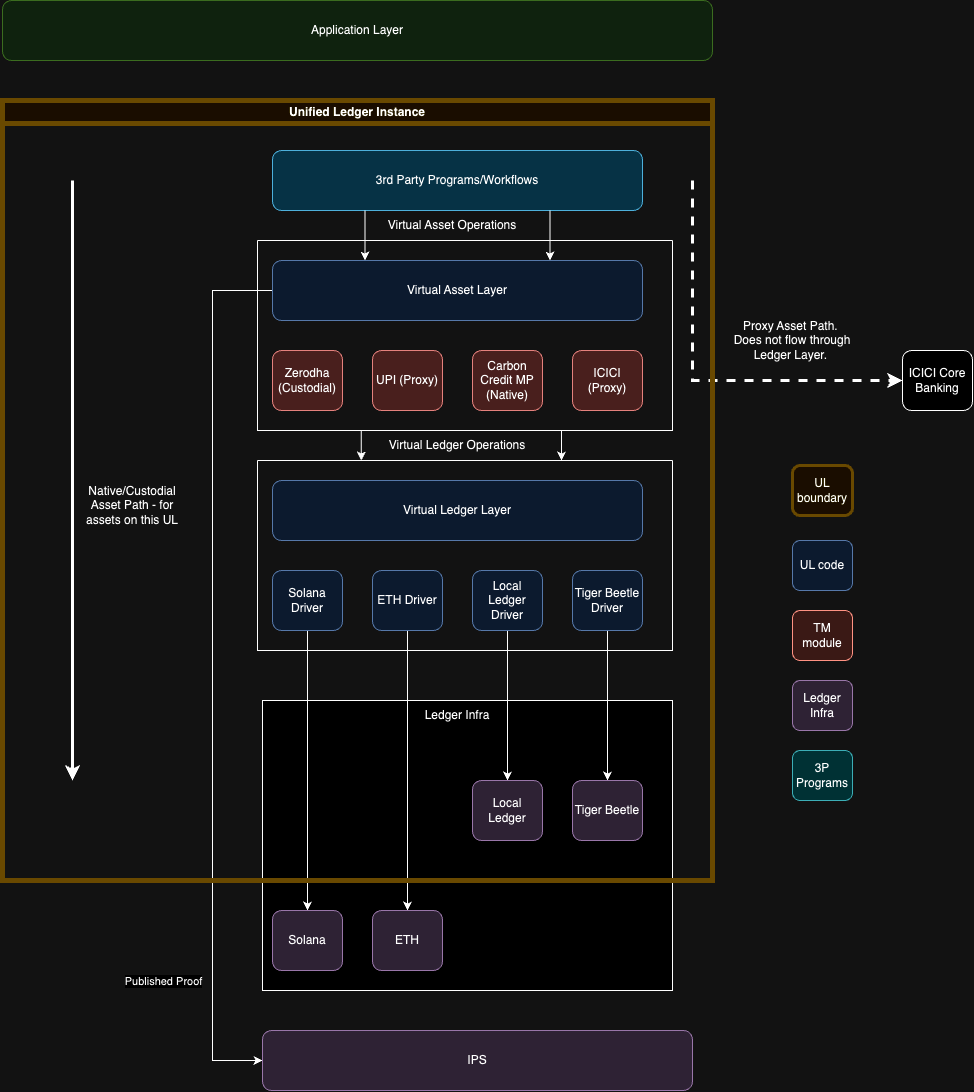
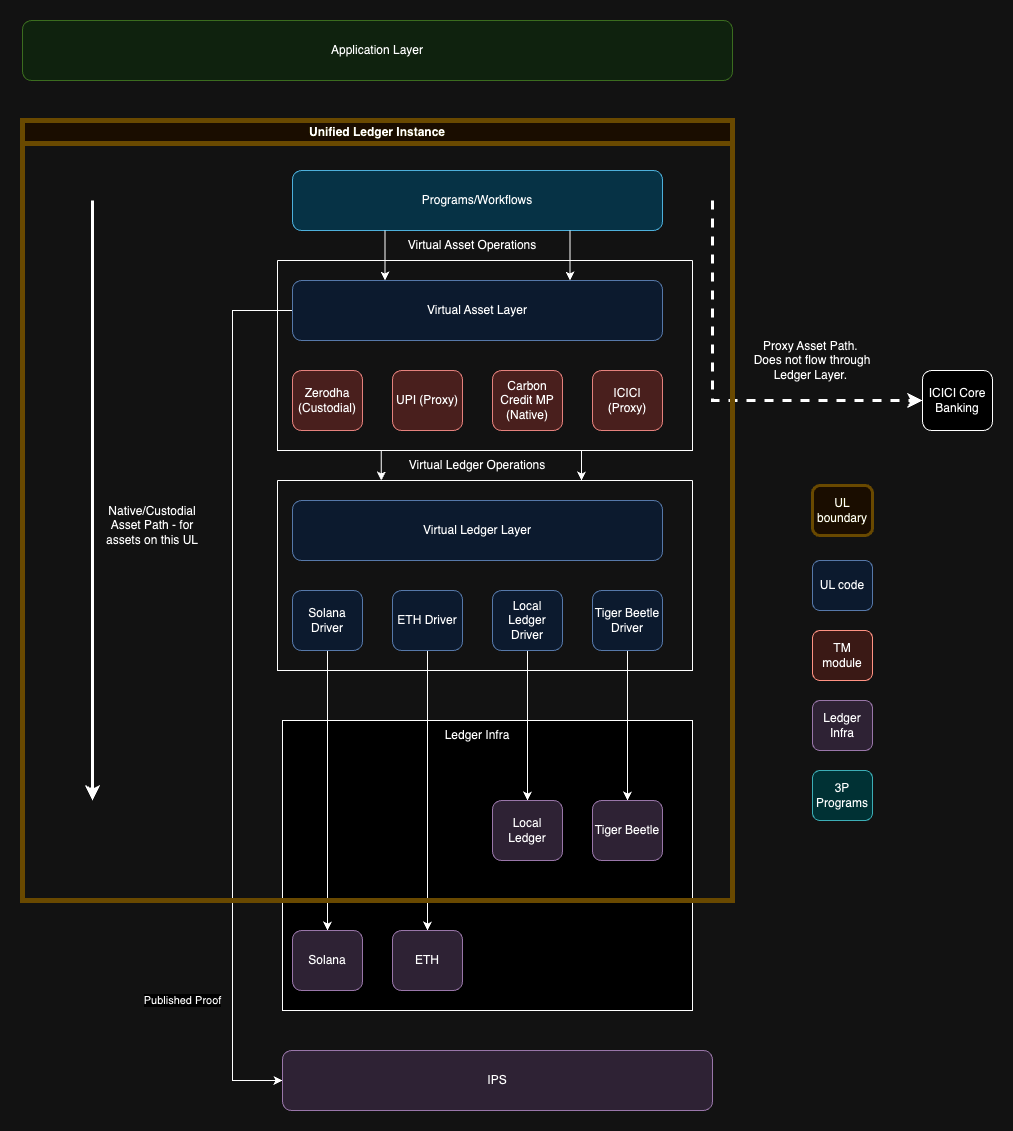
rename program/workflow layer, more clean-up

diff --git a/docs/runtime-primitives/core.md b/docs/runtime-primitives/core.md
@@ -64,14 +64,51 @@ Read/Write on UL, Read-Only on Token Manager Ledger).
 - support locking of assets out of transaction (except on the UL)
 - consume updates from UL (asynchronous mostly) to maintain consistency
 
-# UL Asset Schema and Common Interface
+## Sub-system mapping
 
-The inode construct forms the inspiration for the
-asset schema and the syscall interface forms the inspiration for the
-foundational functions that operate on assets. While we have not included
-credentials and documents under the scope for now - we believe they can have
-similar parallels. A later iteration of the document will address those
-use-cases.
+Based on the above types of assets, we have attempted to define the overall
+system architecture of the Unified Ledger. To do this, we have turned to the
+Linux file-system for inspiration. In Linux everything is treated as a file.
+The Linux filesystem supports a wide variety of files on a wide variety of
+filesystems stored on a wide variety of devices. In short, it is a
+demonstration of a model that provides diversity at multiple levels. In the UL
+land - the requirement is to support a variety of
+assets/credendentials/documents supported by various token managers on a variety
+of ledger infra.
+
+The following diagram attempts to show-case such a layered approach to the
+Unified Ledger system.
+
+<picture>
+  <source media="(prefers-color-scheme: dark)" srcset="./assets/block-diagram-dark.png">
+  <img src="./assets/block-diagram.png" alt="Description of the image">
+</picture>
+<!-- ![Block Diagram](./assets/block-diagram.png) -->
+
+## Key components
+
+- Application layer - this is the layer where programs/higher level asset workflows are written
+- Program/Workflow layer - Asset Program/Workflows that a Unified Ledger supports - could as simple as transfer or a complicated basket of assets transfer
+- Virtual Asset layer - this is the layer that offers a uniform interface to operate on assets across different asset types and different token managers
+- Virtual Ledger layer - this is the layer that offers a uniform interface to use any ledger infrastructure as the underlying store of assets/contracts.
+
+| Operating System    | Unified Ledger          |
+| ------------------- | ----------------------- |
+| Kernel              | Core UL                 |
+| VFS                 | Virtual Asset Layer     |
+| Specific Filesystem | Token Manager impl      |
+| Device Driver Layer | Virtual Ledger Layer    |
+| Device Driver       | Ledger infra impl       |
+| Hard Disk           | Ledger Infra / Database |
+| Process             | Composable workflows    |
+
+# Asset Schema and Functional Interface
+
+The inode construct forms the inspiration for the asset schema and the syscall
+interface forms the inspiration for the foundational functions that operate on
+assets. While we have not included credentials and documents under the scope for
+now - we believe they can have similar parallels. A later iteration of the
+document will address those use-cases.
 
 ## Asset Record - The Inode of the Assets world
 
@@ -324,43 +361,6 @@ pub struct Aacl {
 ```
 
 </details>
-
-## Sub-system mapping
-
-Based on the above types of assets, we have attempted to define the overall
-system architecture of the Unified Ledger. To do this, we have turned to the
-Linux file-system for inspiration. In Linux everything is treated as a file.
-The Linux filesystem supports a wide variety of files on a wide variety of
-filesystems stored on a wide variety of devices. In short, it is a
-demonstration of a model that provides diversity at multiple levels. In the UL
-land - the requirement is to support a variety of
-assets/credendentials/documents supported by various token managers on a variety
-of ledger infra.
-
-The following diagram attempts to show-case such a layered approach to the
-Unified Ledger system.
-
-<picture>
-  <source media="(prefers-color-scheme: dark)" srcset="./assets/block-diagram-dark.png">
-  <img src="./assets/block-diagram.png" alt="Description of the image">
-</picture>
-<!-- ![Block Diagram](./assets/block-diagram.png) -->
-
-## Key components
-
-- Application layer - this is the layer where programs/higher level asset workflows are written
-- Virtual Asset layer - this is the layer that offers a uniform interface to operate on assets across different asset types and different token managers
-- Virtual Ledger layer - this is the layer that offers a uniform interface to use any ledger infrastructure as the underlying store of assets/contracts.
-
-| Operating System    | Unified Ledger          |
-| ------------------- | ----------------------- |
-| Kernel              | Core UL                 |
-| VFS                 | Virtual Asset Layer     |
-| Specific Filesystem | Token Manager impl      |
-| Device Driver Layer | Virtual Ledger Layer    |
-| Device Driver       | Ledger infra impl       |
-| Hard Disk           | Ledger Infra / Database |
-| Process             | Composable workflows    |
 
 ## Functional primitives aka Virual Asset Operations (aka Syscalls)
 
@@ -645,9 +645,4 @@ can move all upi accounts into one directory.
 ```c
 mkdir("/ul-provider-1/users/natarajan/upi-accounts/");
 rename("/ul-provider-1/users/natarajan/upi-1", "/ul-provider-1/users/natarajan/upi-accounts/")
-```
-
-```c
-
-attach_program("/ul-provider-1/asset-managers/zerodha/xxxx", "transfer", char* code)
 ```
